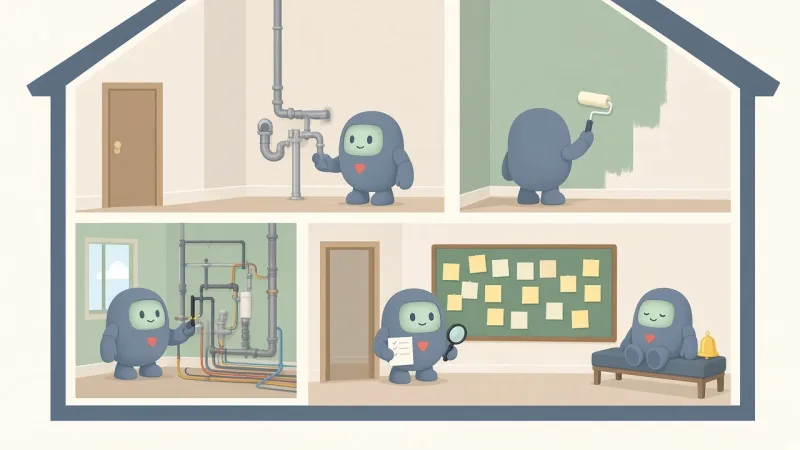
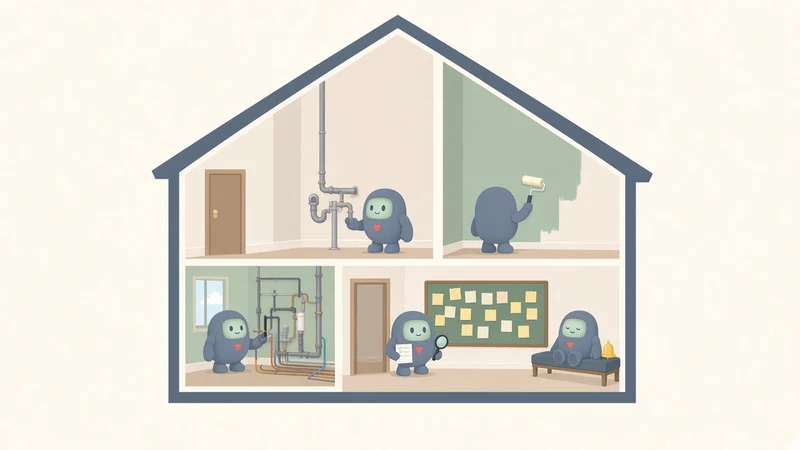
antigravity-multi-agent-modes: full-roof swarm image, larger illustrations

diff --git a/src/content/posts/antigravity-multi-agent-modes.md b/src/content/posts/antigravity-multi-agent-modes.md
@@ -18,8 +18,8 @@ tags:
 .tw table{margin:0;min-width:560px}
 .tw td:first-child,.tw th:first-child{white-space:nowrap}
 .tw table.sum{min-width:0}
-.ill{max-width:440px;margin:24px auto}
-.ill.hero{max-width:640px}
+.ill{max-width:600px;margin:24px auto}
+.ill.hero{max-width:none}
 .ill img{display:block;width:100%;height:auto;border-radius:8px}
 html[data-theme="dark"] .ill img{filter:brightness(.88)}
 .dg{overflow-x:auto;margin:20px 0}
